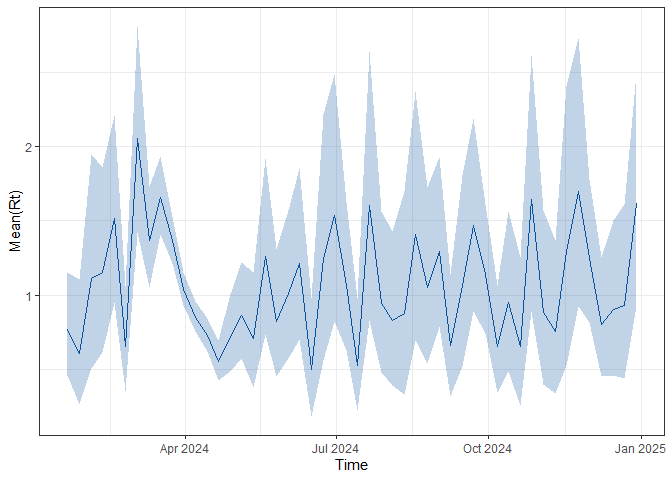
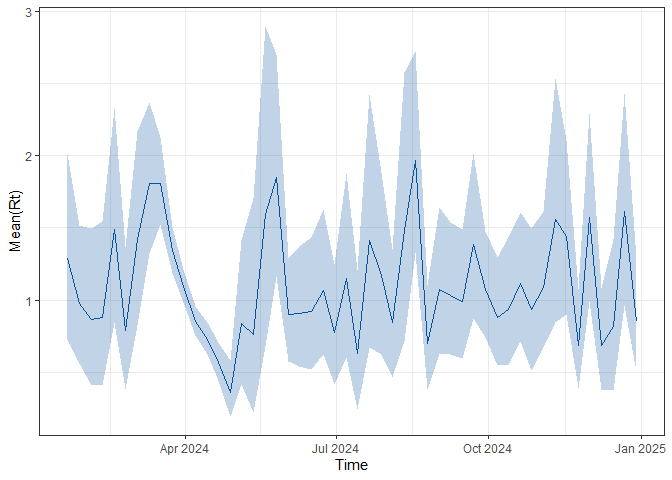
updates to readme after CRAN release, bump of version for development

diff --git a/README.md b/README.md
@@ -18,17 +18,14 @@ respiratory diseases.
 
 ## Installation
 
-`ViroReportR` depends on the latest version of the `EpiEstim` package
-(2.4). Thus, this version of the package must be installed from GitHub
-prior to installing the `ViroReportR` package using:
+### CRAN (recommended)
+
+Install the released version from CRAN:
 
 ``` r
-# install.packages("devtools")
-install.packages('EpiEstim', repos = c('https://mrc-ide.r-universe.dev', 'https://cloud.r-project.org'))
-```
+install.packages("ViroReportR")
 
-You can then install the development version of `ViroReportR` from
-[GitHub](https://github.com/) with:
+You can then install the development version of `ViroReportR` from [GitHub](https://github.com/) with:
 
 ``` r
 
@@ -97,14 +94,14 @@ head(vri_data_list)
 #>    date       confirm
 #>    <date>       <dbl>
 #>  1 2024-01-07       0
-#>  2 2024-01-08       8
+#>  2 2024-01-08       6
 #>  3 2024-01-09       0
-#>  4 2024-01-10       5
+#>  4 2024-01-10       0
 #>  5 2024-01-11       0
-#>  6 2024-01-12       8
-#>  7 2024-01-13       9
+#>  6 2024-01-12       0
+#>  7 2024-01-13       4
 #>  8 2024-01-14       0
-#>  9 2024-01-15       4
+#>  9 2024-01-15       2
 #> 10 2024-01-16       0
 #> # ℹ 356 more rows
 #> 
@@ -114,12 +111,12 @@ head(vri_data_list)
 #>    <date>       <dbl>
 #>  1 2024-01-07       0
 #>  2 2024-01-08       0
-#>  3 2024-01-09       0
+#>  3 2024-01-09       1
 #>  4 2024-01-10       0
-#>  5 2024-01-11       5
+#>  5 2024-01-11       9
 #>  6 2024-01-12       0
 #>  7 2024-01-13       0
-#>  8 2024-01-14       1
+#>  8 2024-01-14       0
 #>  9 2024-01-15       0
 #> 10 2024-01-16       0
 #> # ℹ 356 more rows
@@ -128,16 +125,16 @@ head(vri_data_list)
 #> # A tibble: 366 × 2
 #>    date       confirm
 #>    <date>       <dbl>
-#>  1 2024-01-07       9
-#>  2 2024-01-08       0
+#>  1 2024-01-07       8
+#>  2 2024-01-08       3
 #>  3 2024-01-09       0
 #>  4 2024-01-10       0
 #>  5 2024-01-11       0
 #>  6 2024-01-12       0
 #>  7 2024-01-13       0
-#>  8 2024-01-14       3
-#>  9 2024-01-15       0
-#> 10 2024-01-16       0
+#>  8 2024-01-14       0
+#>  9 2024-01-15       2
+#> 10 2024-01-16       3
 #> # ℹ 356 more rows
 ```
 
